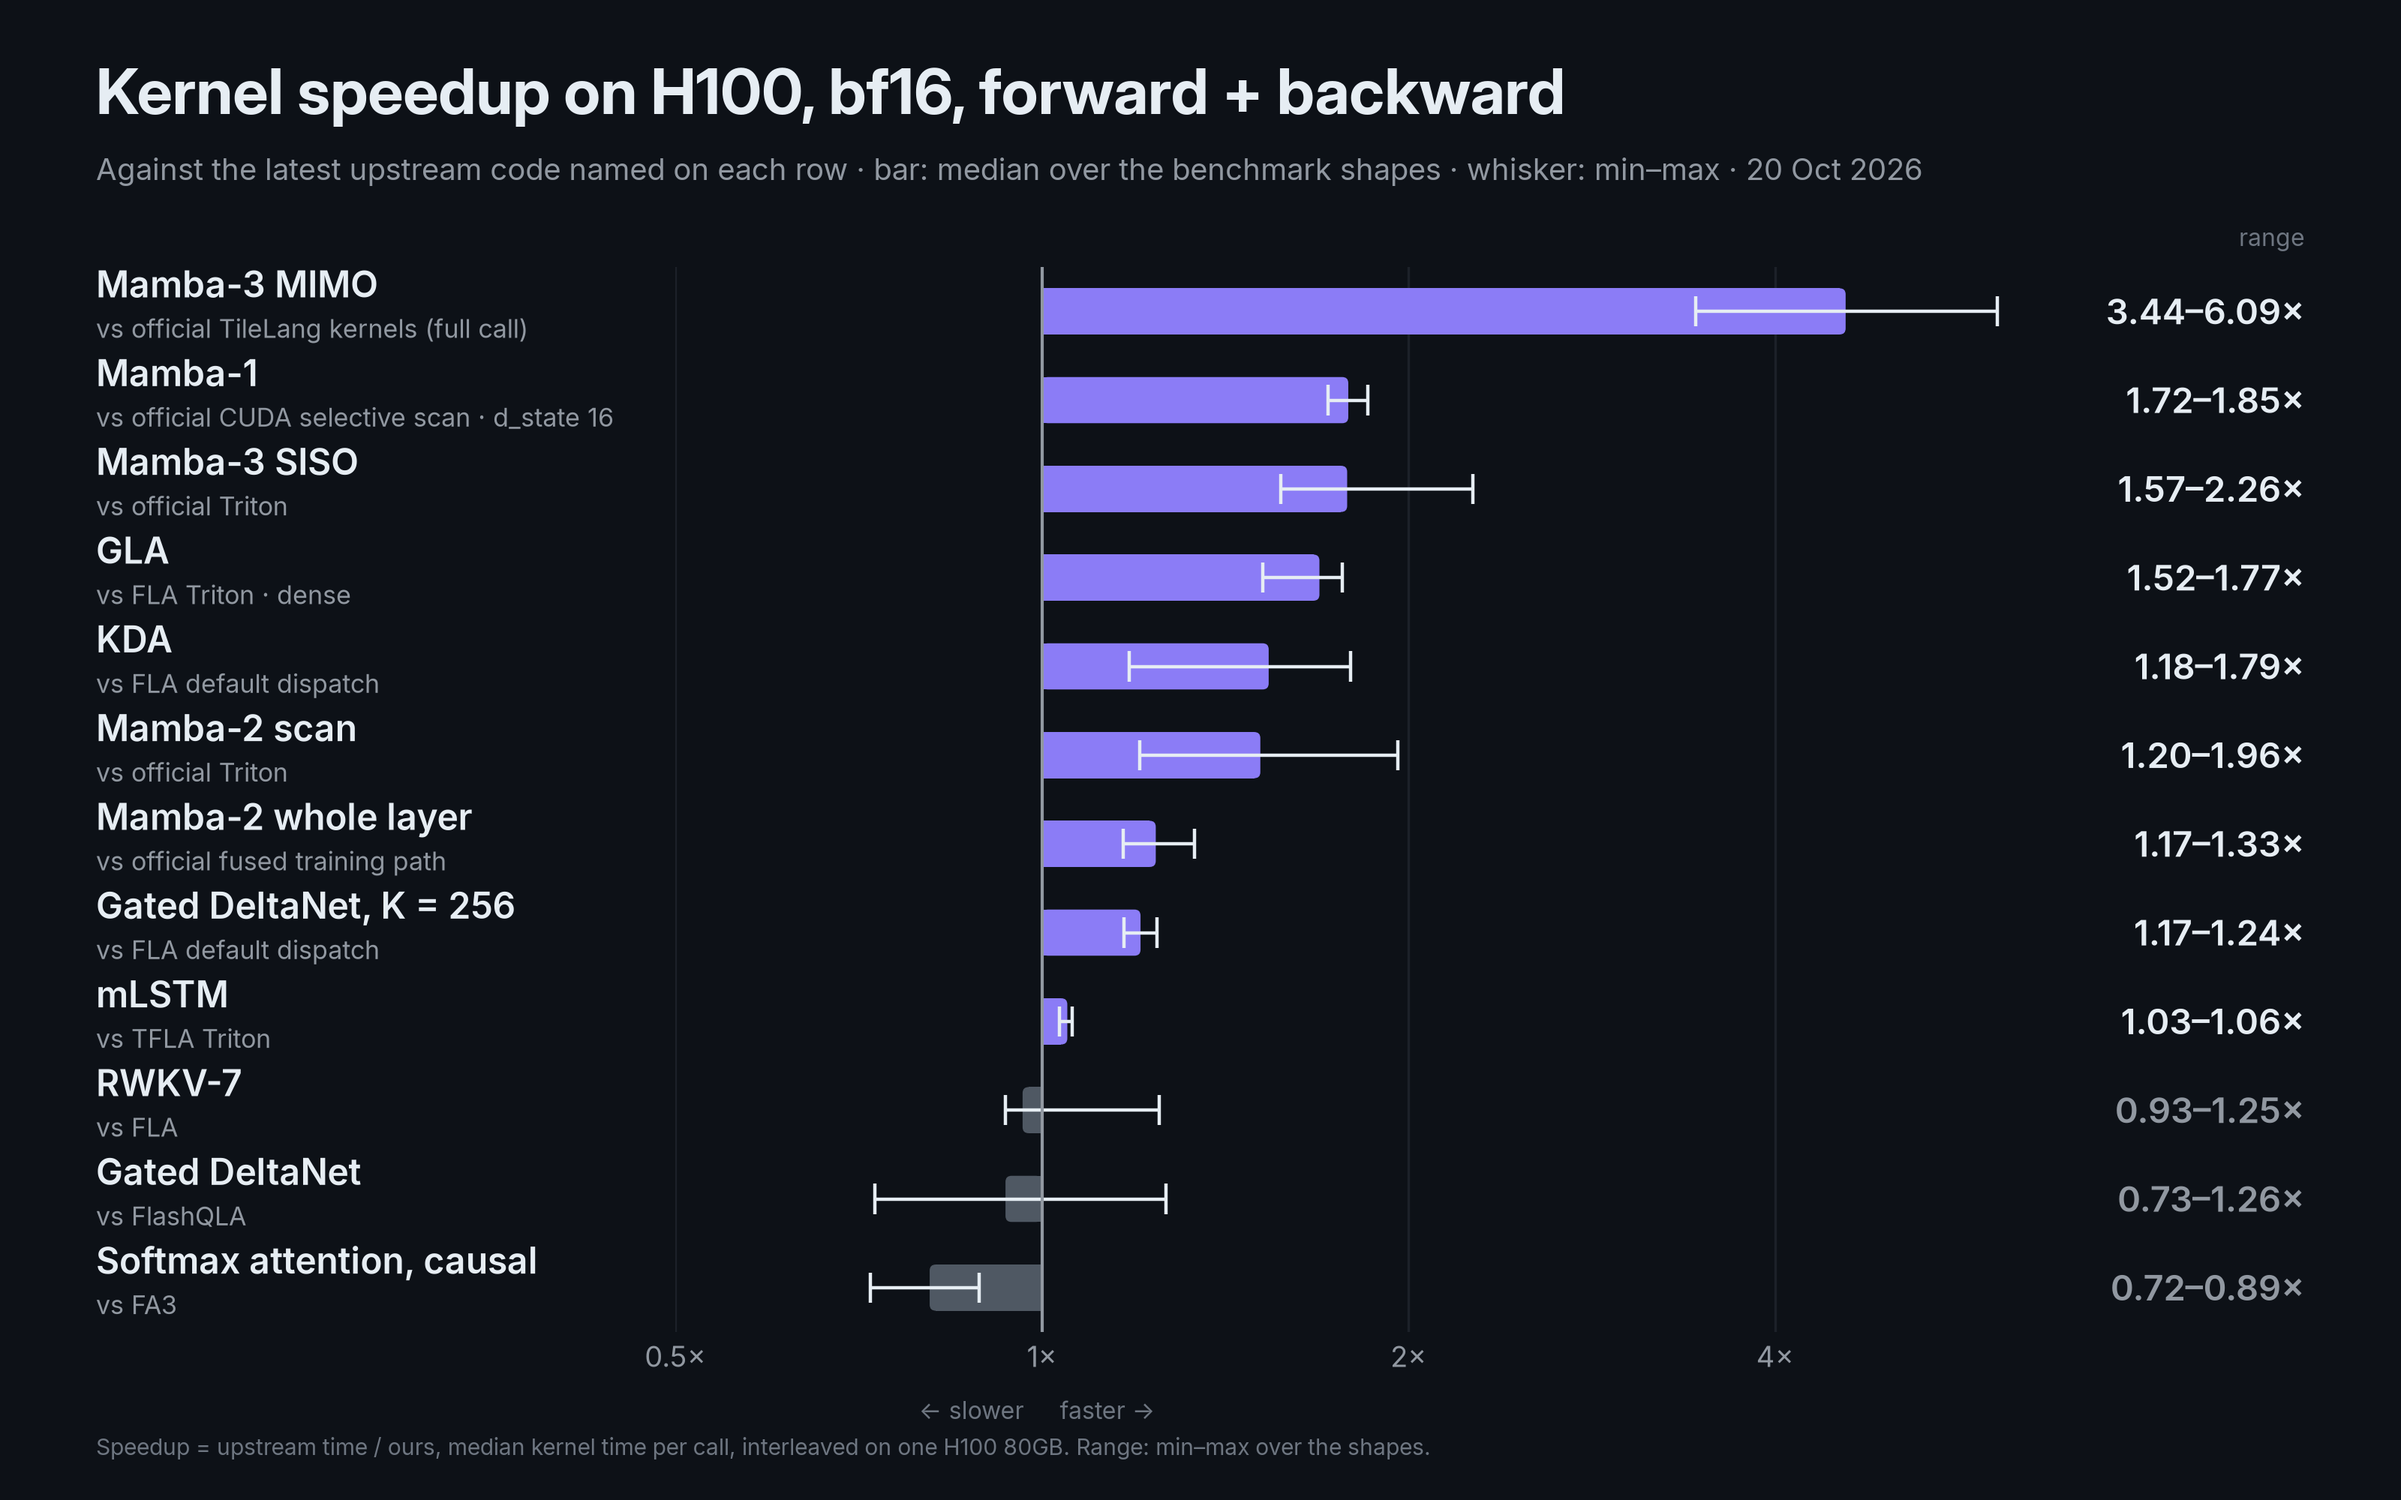
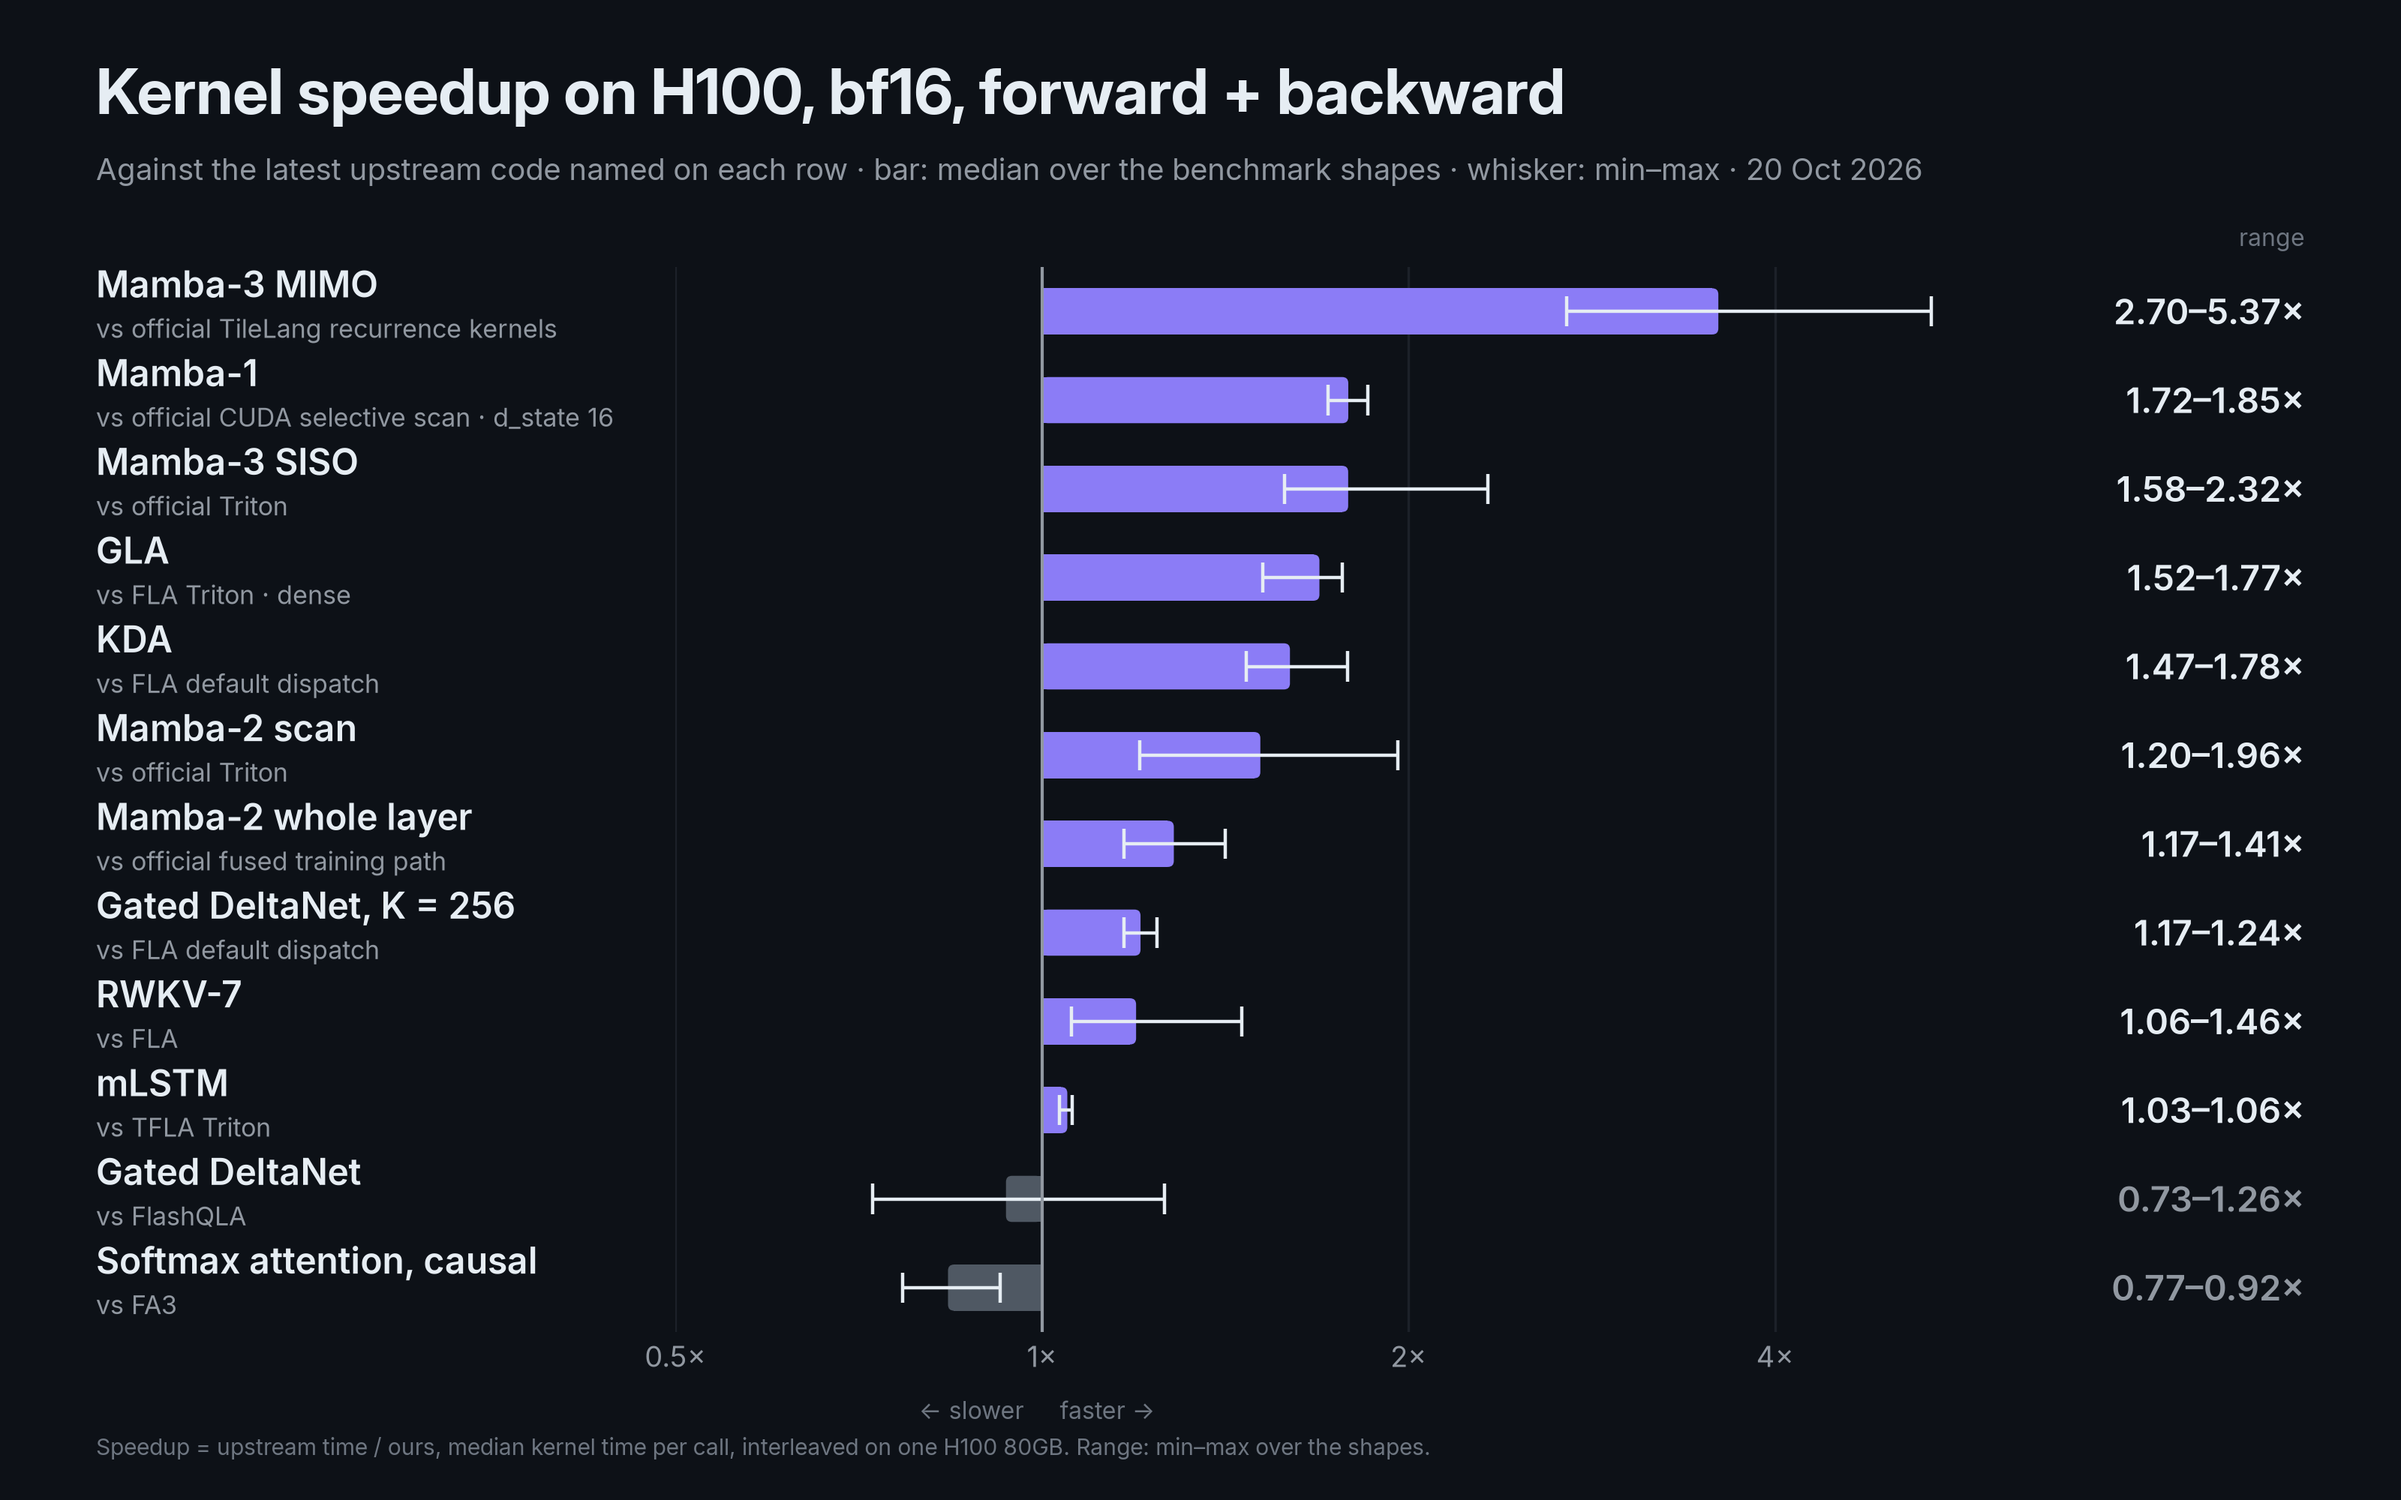
Profile: paper-setting chart and updated numbers

diff --git a/profile/README.md b/profile/README.md
@@ -55,8 +55,8 @@ H100 and H200; on other devices every op falls back to plain JAX.
     </td>
     <td width="50%" valign="top">
       <b>Fast end to end</b><br>
-      71.8% MFU on one H100 and 68.2% MFU per GPU on 8 H100s for a 1.3B transformer in FP8, and
-      1.02-1.67x flame (FLA's trainer) in bf16 on the same tokens.
+      72.3% MFU on one H100 and 68.2% MFU per GPU on 8 H100s for a 1.3B transformer in FP8, and
+      1.04-1.67x flame (FLA's trainer) in bf16 on the same tokens.
     </td>
   </tr>
 </table>
@@ -68,20 +68,27 @@ H100 and H200; on other devices every op falls back to plain JAX.
   <img src="./assets/kernels-light.png" width="100%" alt="Kernel speedups on one H100, forward and backward, against the latest upstream code named on each row, with the rows where jax-linear-attention is slower shown too.">
 </picture>
 
+<picture>
+  <source media="(prefers-color-scheme: dark)" srcset="./assets/gdn2-paper-dark.png">
+  <img src="./assets/gdn2-paper-light.png" width="100%" alt="Every 1.3B model of the Gated DeltaNet-2 paper's Figure 2 at 4K x 4 tokens per step on one H100: the paper's numbers against jax-linear-attention's with a 32K and a 128K vocabulary.">
+</picture>
+
 - **[Kernels](https://github.com/jla-org/jax-linear-attention/blob/main/docs/kernels.md):** against
-  the latest upstream code on one H100, forward + backward: Mamba-3 MIMO 3.44-6.09x the official
-  kernels, the Mamba-2 scan 1.20-1.96x, KDA 1.18-1.79x FLA, GLA 1.52-1.77x FLA, Gated DeltaNet
-  1.72-2.68x FLA's Triton kernels.
+  the latest upstream code on one H100, forward + backward: Mamba-3 MIMO 2.70-5.37x the official
+  recurrence kernels, the Mamba-2 scan 1.20-1.96x, KDA 1.47-1.78x FLA, GLA 1.52-1.77x FLA, Gated DeltaNet
+  1.71-2.68x FLA's Triton kernels.
 - **[End to end](https://github.com/jla-org/jax-linear-attention/blob/main/docs/results.md):** 1.3B
-  models against flame on the same tokens: 1.02-1.67x in bf16 and 1.11-1.76x in FP8 against flame's
+  models against flame on the same tokens: 1.04-1.67x in bf16 and 1.10-1.77x in FP8 against flame's
   FP8, and 1.47x flame per GPU for the transformer on 8 H100s.
+- **[In the Gated DeltaNet-2 paper's setting](https://github.com/jla-org/jax-linear-attention/blob/main/benchmarks/gdn2_paper.md):**
+  every 1.3B model of the paper's Figure 2 trains 1.14-1.41x faster on one H100 than the paper reports,
+  with a 32,000-token vocabulary.
 - **[Where we lose](https://github.com/jla-org/jax-linear-attention#where-we-lose):** FlashQLA beats
   our exact Gated DeltaNet split on long single sequences and few-head packed documents, and our
   FA3-style attention runs below FA3. Each case is listed with its numbers and the reason.
 
-Every number comes from one benchmark pass of the release code on a quiet H100 node, with the
-baseline commits and commands in
-[benchmarks/](https://github.com/jla-org/jax-linear-attention/tree/main/benchmarks).
+Every number was measured on H100s with no other jobs on the GPUs; the baseline commits and commands
+are in [benchmarks/](https://github.com/jla-org/jax-linear-attention/tree/main/benchmarks).
 
 ### Open source
 
